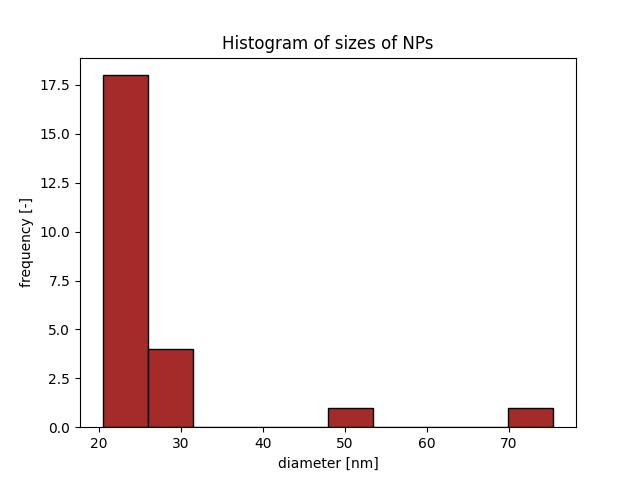
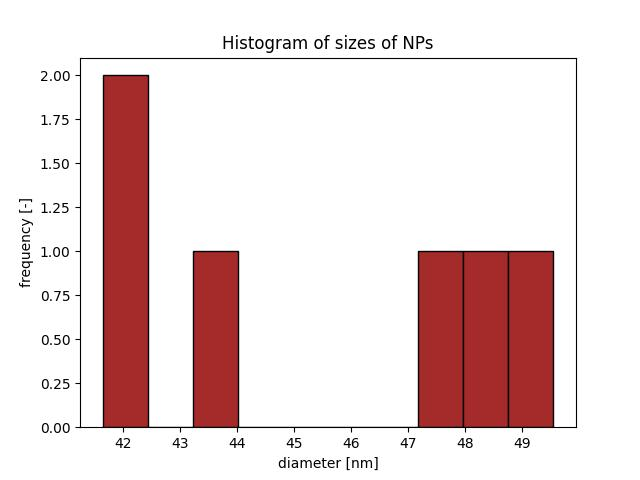
repairing error in find_overlaps + better separation of NPs using canny edge

diff --git a/img_fcn.py b/img_fcn.py
@@ -133,9 +133,6 @@ def filtering_img(img_raw, scale, np_type, pixel_size, is_bg):
 
         img = median(img, kernel)
 
-    plt.imshow(img, cmap='gray')
-    plt.show()
-
     return img, pixel_size
 
 
@@ -150,19 +147,7 @@ def background(img):
         numpy.ndarray: image without background
     """
 
-    img = img.astype(np.float32)
-    bg = cv2.GaussianBlur(img, (49,49), 0)
-    plt.imshow(bg, cmap='gray')
-    plt.show()
-    plt.imshow(img, cmap='gray')
-    plt.show()
-    criteria = (cv2.TERM_CRITERIA_EPS + cv2.TERM_CRITERIA_MAX_ITER, 100, 0.001)
-    k = 3
-    _, label, center = cv2.kmeans(img, k, None, criteria, 10, cv2.KMEANS_RANDOM_CENTERS)
-    print(set(label.flatten()))
-    center = np.uint8(center)
-    res = center[label.flatten()]
-    res = res.reshape(img.shape)
+    #img = cv2.GaussianBlur(img, (21,21), 0)
     
     return img
 
@@ -202,12 +187,23 @@ def binarizing(img, np_type, is_bg):
 
     if is_bg:
         for _ in range(3):
-            binary = cv2.morphologyEx(binary.astype(np.uint8), cv2.MORPH_OPEN, disk(9))
-            binary = cv2.morphologyEx(binary.astype(np.uint8), cv2.MORPH_CLOSE, disk(9))
+            binary = cv2.morphologyEx(binary.astype(np.uint8), cv2.MORPH_OPEN, disk(5))
+            binary = cv2.morphologyEx(binary.astype(np.uint8), cv2.MORPH_CLOSE, disk(5))
 
+    img *= 255
+    edges = cv2.Canny(img.astype(np.uint8), 50, 200)
+    
+    plt.subplot(2, 2, 1)
+    plt.imshow(binary, cmap='gray')
+    plt.subplot(2, 2, 2)
+    plt.imshow(edges, cmap='gray')
+
+    binary[edges == 255] = 0
+    plt.subplot(2, 2, 3)
     plt.imshow(binary, cmap='gray')
     plt.show()
 
+    print(binary)
     return binary
 
 
@@ -271,6 +267,7 @@ def segmentation(img, binary, np_type, pixel_size):
     labels = watershed_transform(binary, np_type)
     sizes, props_watershed = calculation_watershed(labels, np_type)
     labels, props_watershed = filter_blobs(labels, sizes, props_watershed)
+    sizes = [i for i in sizes]
 
     if np_type == "nanoparticles":
         props_ht, seeds = find_overlaps(img, binary, sizes, np_type, pixel_size)
@@ -391,6 +388,7 @@ def find_overlaps(img, binary, sizes, np_type, pixel_size):
         list: list pf tuples with coordinates of center
                 and radii of hough circles
     """
+
     erode = erosion(binary)
     iterations = int(9/pixel_size)
     for _ in range(iterations):
@@ -403,12 +401,15 @@ def find_overlaps(img, binary, sizes, np_type, pixel_size):
         props_ht = []
 
     else:
-        median = calc_median(deepcopy(sizes))
-        for i in range(len(sizes)):
+        median = calc_median(sizes)
+        i = 0
+        while i < len(sizes):
             if sizes[i] < 0.5 * median:
                 sizes.pop(i)
                 props.pop(i)
-        median = calc_median(deepcopy(sizes))
+            else: 
+                i += 1
+        median = calc_median(sizes)
         props_ht = []
 
         for number, size in props:
